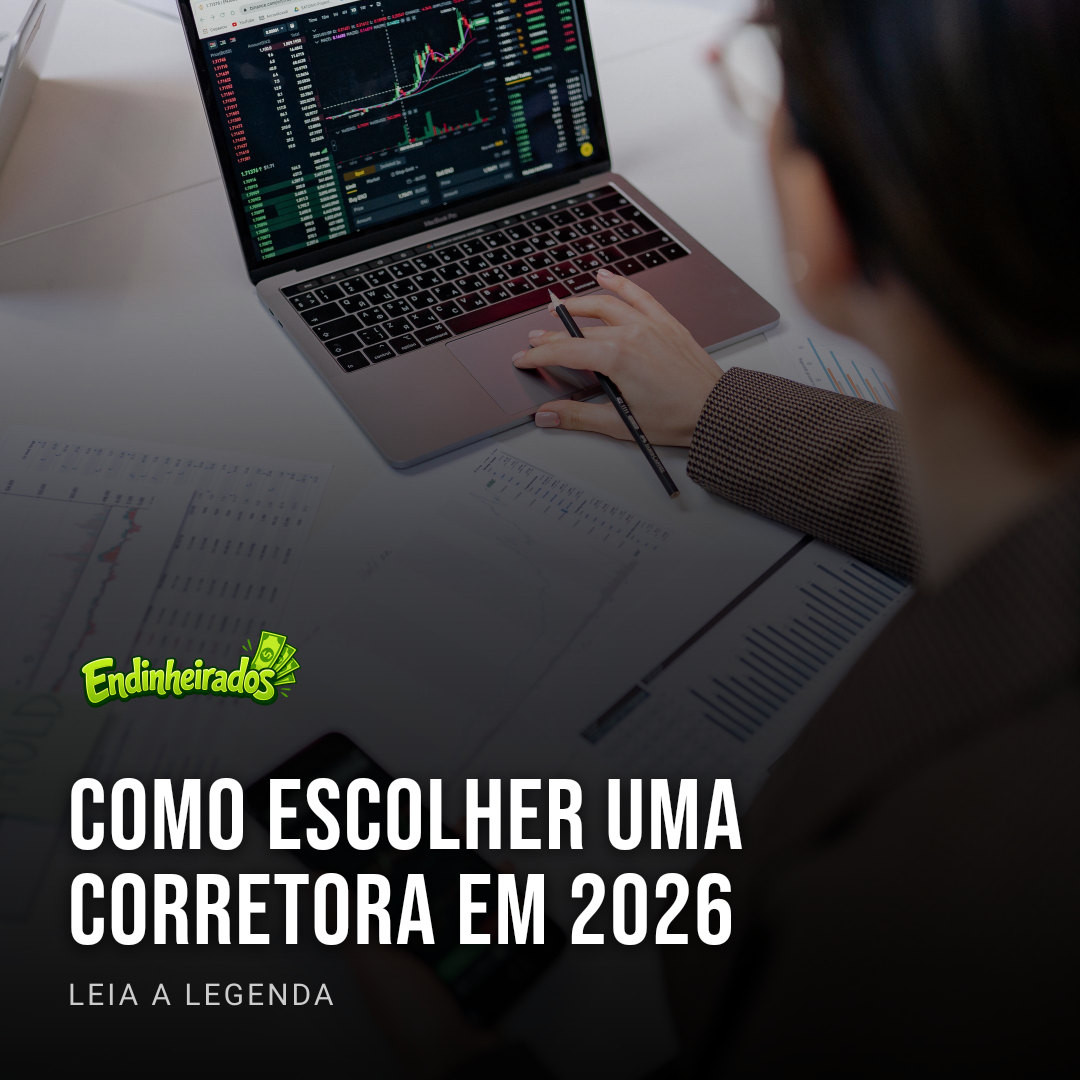
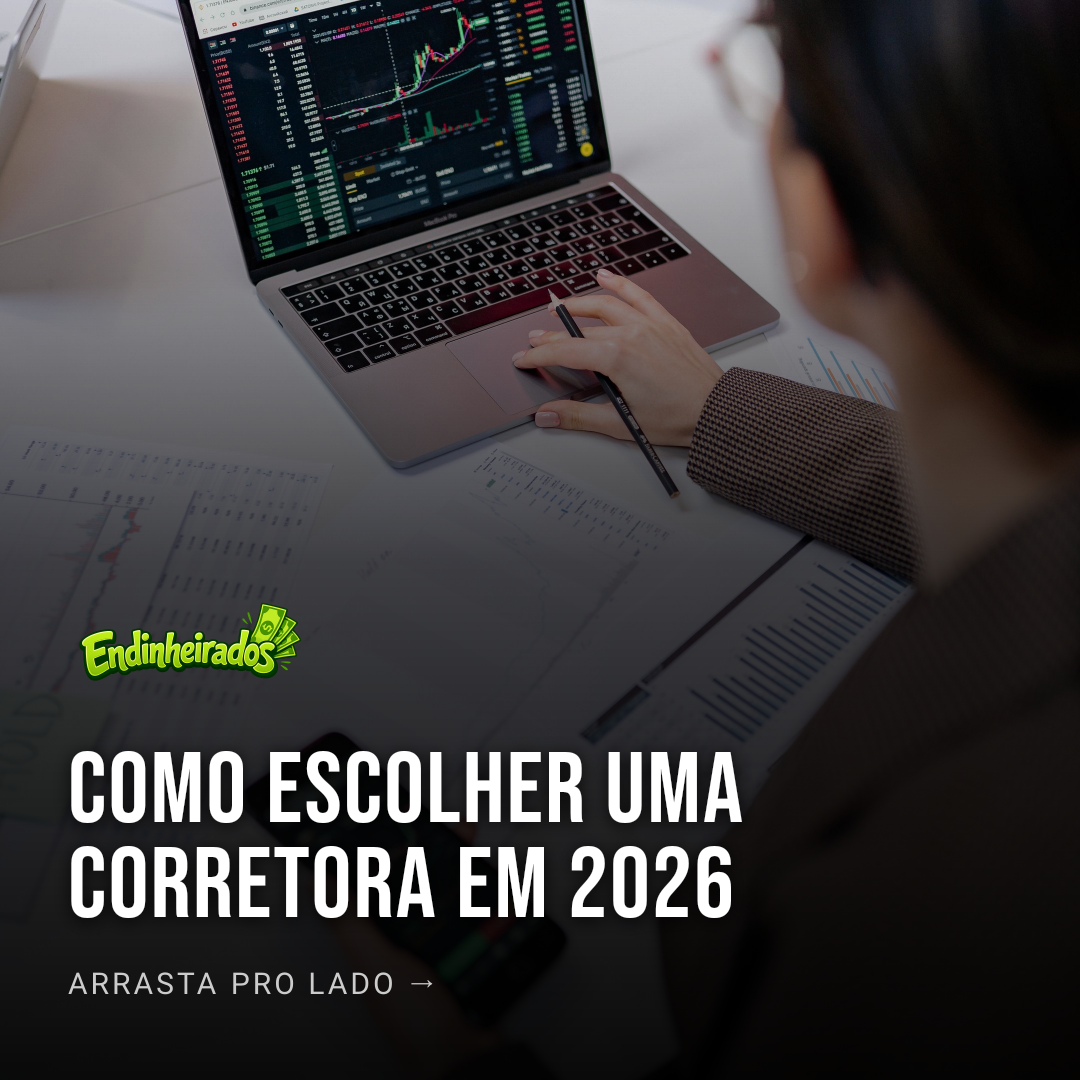
feat: backlog entrega no Telegram em vez de auto-IG + capa corretoras com CTA arrasta

Changed region(s): [[0.0611, 0.55, 0.7028, 0.9472]]

diff --git a/src/app/api/cron/ig-backlog/route.ts b/src/app/api/cron/ig-backlog/route.ts
@@ -132,13 +132,40 @@ export async function GET(request: Request) {
     if (!photoUrl) throw new Error('Unsplash não retornou foto')
 
     const caption = await buildCaption(post)
+    const blogUrl = `${SITE}/blog/${post.slug}`
 
     // Gera imagem no padrão Endinheirados via /api/og
-    const igTitle = encodeURIComponent(post.title.toUpperCase())
-    const igPhoto = encodeURIComponent(photoUrl)
-    const igImageUrl = `${SITE}/api/og?title=${igTitle}&photo=${igPhoto}`
+    const igImageUrl = `${SITE}/api/og?title=${encodeURIComponent(post.title.toUpperCase())}&photo=${encodeURIComponent(photoUrl)}`
 
-    // Criar container de mídia
+    const token = process.env.TELEGRAM_BOT_TOKEN
+    const chatId = process.env.TELEGRAM_CHAT_ID
+    if (token && chatId) {
+      // Entrega no Telegram para postagem manual (com música)
+      const TG = `https://api.telegram.org/bot${token}`
+      const photoRes = await fetch(`${TG}/sendPhoto`, {
+        method: 'POST',
+        headers: { 'Content-Type': 'application/json' },
+        body: JSON.stringify({
+          chat_id: chatId,
+          photo: igImageUrl,
+          caption: `📲 Post do backlog pronto pra postar (adicione a música no app)\n\n${blogUrl}`,
+        }),
+      })
+      const photoData = await photoRes.json()
+      if (!photoData.ok) throw new Error(`Telegram sendPhoto: ${JSON.stringify(photoData)}`)
+
+      await fetch(`${TG}/sendMessage`, {
+        method: 'POST',
+        headers: { 'Content-Type': 'application/json' },
+        body: JSON.stringify({ chat_id: chatId, text: `📋 LEGENDA (copie e cole):\n\n${caption}`, disable_web_page_preview: true }),
+      })
+
+      await markIgPublished(post.slug, `tg:${photoData.result?.message_id ?? 'sent'}`)
+
+      return NextResponse.json({ ok: true, channel: 'telegram', title: post.title, slug: post.slug, url: blogUrl })
+    }
+
+    // Fallback: publica direto no Instagram
     const createRes = await fetch(`${GRAPH}/${IG_USER_ID}/media`, {
       method: 'POST',
       headers: { 'Content-Type': 'application/json' },
@@ -159,13 +186,7 @@ export async function GET(request: Request) {
 
     await markIgPublished(post.slug, pubData.id)
 
-    return NextResponse.json({
-      ok: true,
-      title: post.title,
-      slug: post.slug,
-      igPostId: pubData.id,
-      url: `${SITE}/blog/${post.slug}`,
-    })
+    return NextResponse.json({ ok: true, channel: 'instagram', title: post.title, slug: post.slug, igPostId: pubData.id, url: blogUrl })
   } catch (err) {
     const message = err instanceof Error ? err.message : String(err)
     console.error('[ig-backlog] Erro:', message)